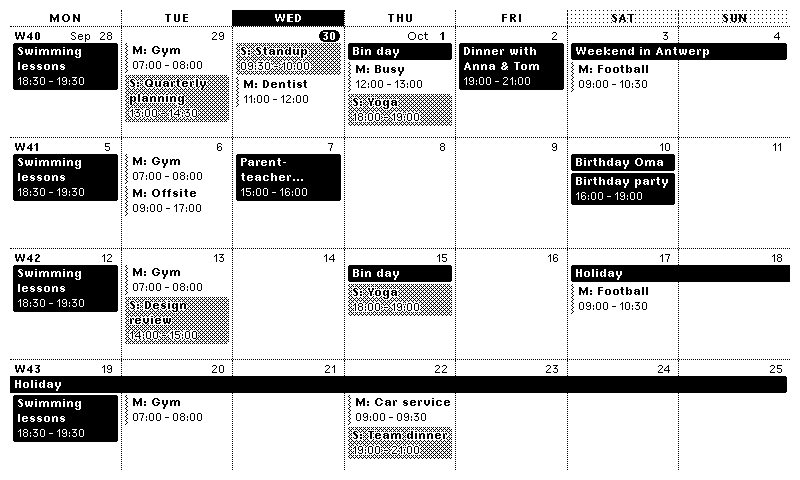
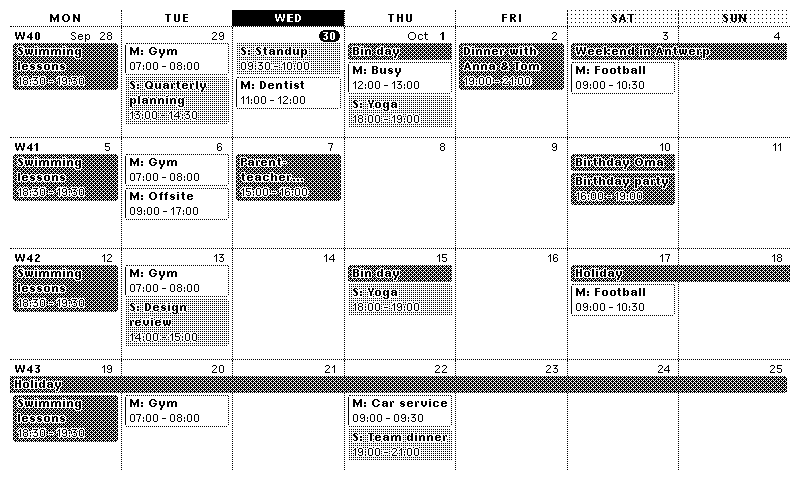
README screenshots: Family gray-35, Mark white, Sara gray-60
Claude-Session: https://claude.ai/code/session_01TFeq2ddfQfMN13oanR1uHP

diff --git a/README.md b/README.md
@@ -220,10 +220,10 @@ settings:
 |---|---|
 | Calendars | Family, Mark, Sara |
 | Calendar prefixes | `-`, `M:`, `S:` |
-| Calendar colors | `black`, `-`, `gray-50` |
+| Calendar colors | `gray-35`, `white`, `gray-60` |
 
-shared family events get no prefix and a `black` fill, Mark's events get `M:` and no
-fill, and Sara's get `S:` and a `gray-50` fill. That is what the screenshots above
+shared family events get no prefix and a `gray-35` fill, Mark's events get `M:` and a
+`white` fill, and Sara's get `S:` and a `gray-60` fill. That is what the screenshots above
 show, with week numbers on.
 
 - **Prefix**: shown before the title, followed by a space (`S: Standup`).
